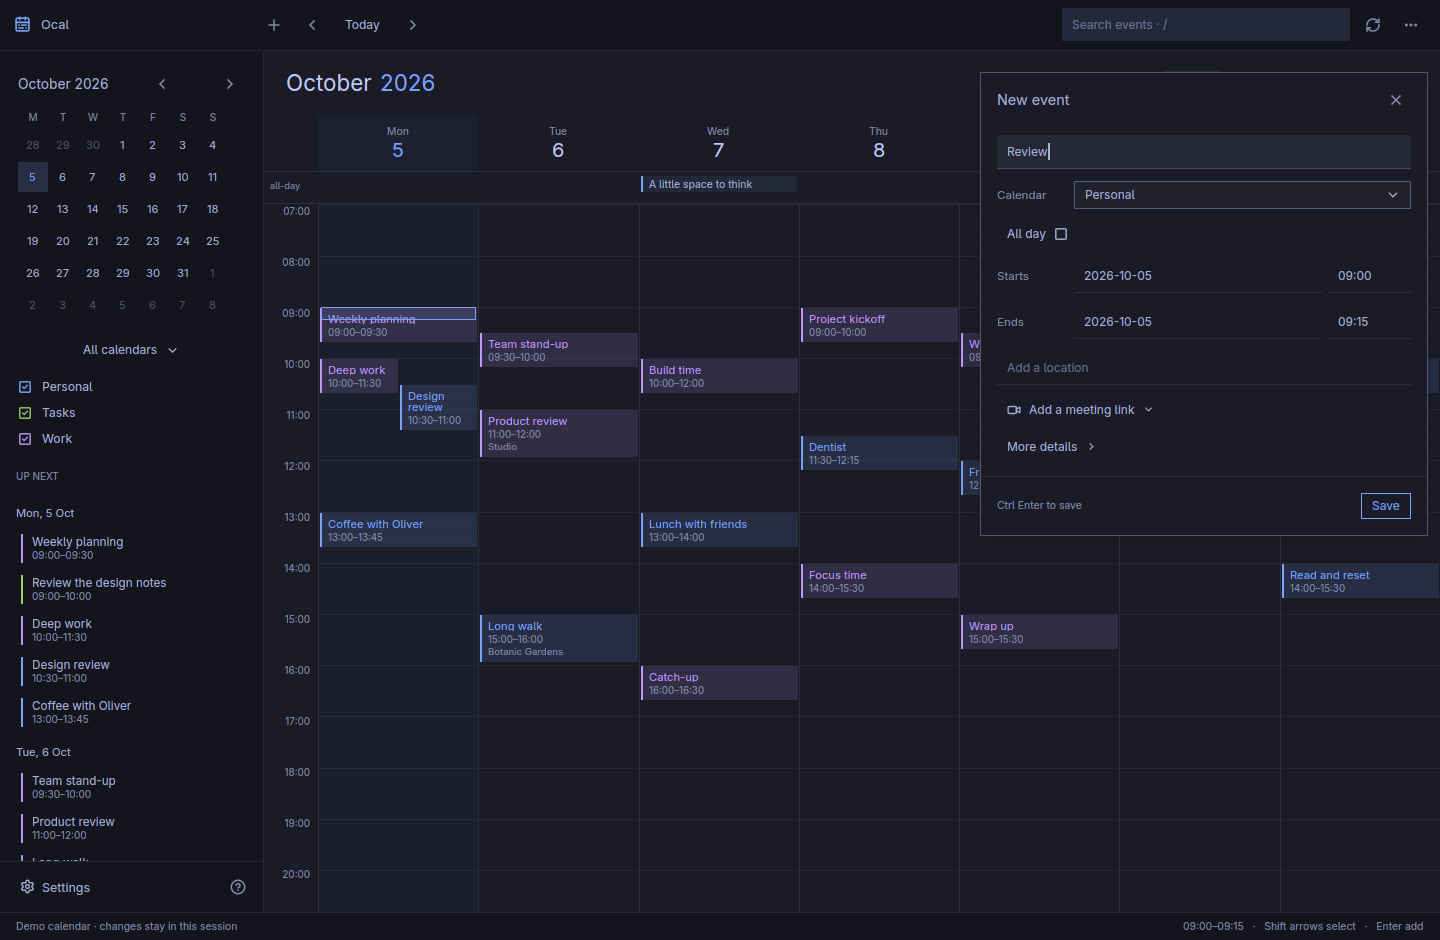
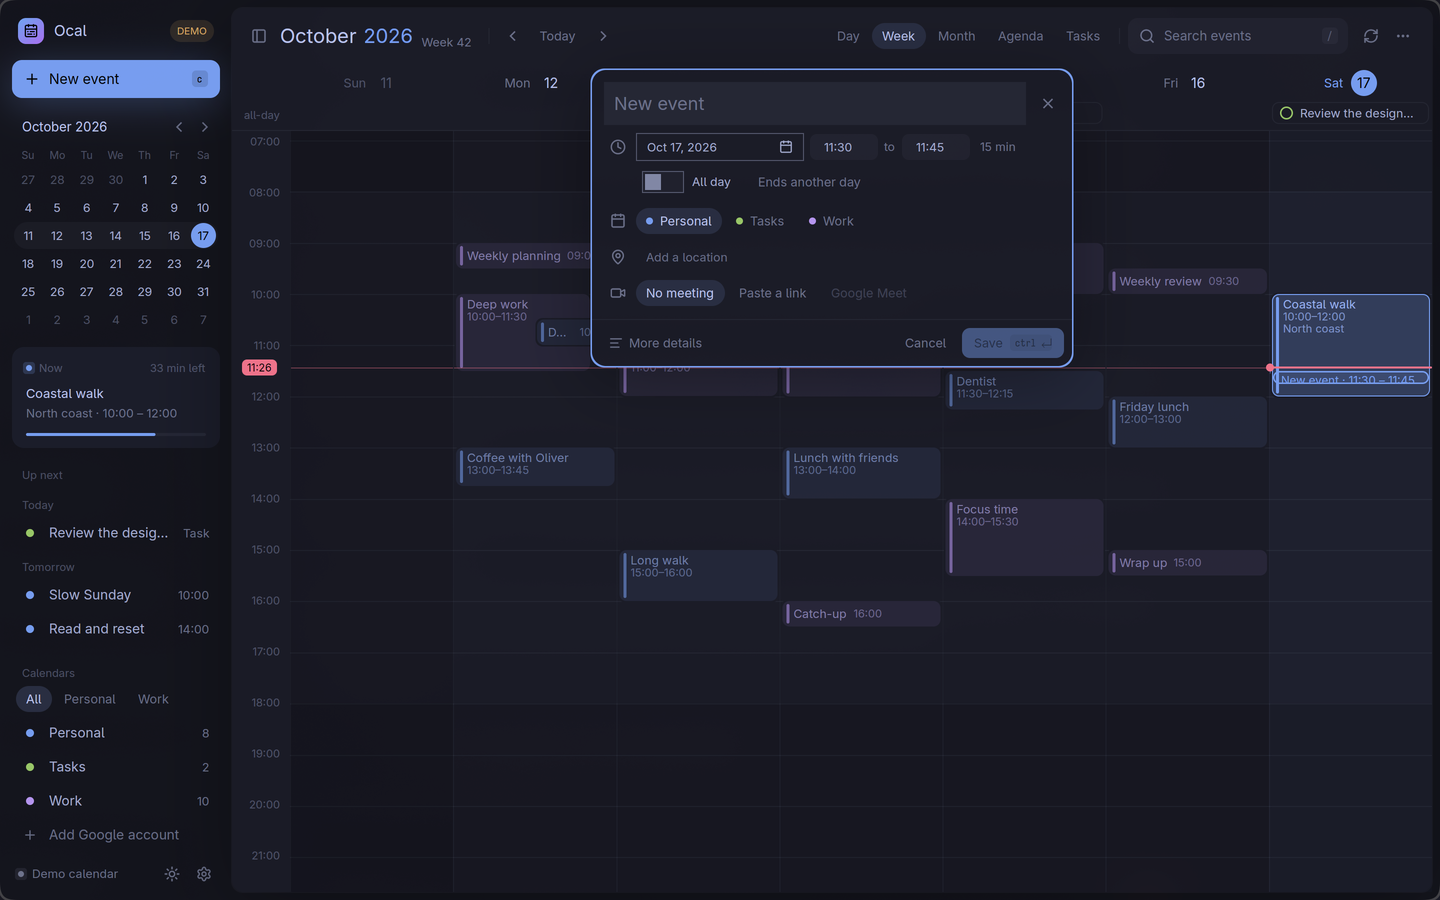
Refresh screenshots and validation notes for the redesign
New captures of week, day, details, editor, month, agenda, tasks and
light mode replace the pre-redesign ones; captures of the old context
menu, meeting picker and compact editor are dropped rather than left
showing the old interface. The validation notes record the new tests
and review, and the gap analysis notes where the app deliberately keeps
gpui-omarchy's stock controls instead of the prototype's drawings.

diff --git a/docs/validation.md b/docs/validation.md
@@ -1,29 +1,32 @@
 # Validation
 
-Validated on 6 October 2026, Arch Linux ARM / Omarchy, aarch64, Rust 1.97.0.
+Validated on 17 October 2026, after the redesign, on Arch Linux ARM / Omarchy, aarch64, Rust 1.97.0.
 
 - `cargo fmt --all -- --check`
-- `cargo test --locked --workspace`: **48 tests passed** (27 core, 21 native UI interactions).
+- `cargo test --locked --workspace`: **81 tests passed** (31 core, 50 native UI interactions).
 - `cargo clippy --locked --workspace --all-targets -- -D warnings`
 - Release build and desktop-entry validation.
 
 The UI tests cover 15-minute keyboard selection, Shift-drag in empty calendar space, input isolation, disabling edits during save, retry after errors, returning focus after save, context-menu keyboard ownership and dismissal, right-click placement and time selection, full-width week/month layouts, explicit Meet generation with stable retry IDs, pasted-link focus, removing conferences, and 480×480 light-theme layouts at 180% zoom with focused fields revealed by scrolling. Sign-in tests cover the hidden custom-client option, disabled demo sign-in, progress staying busy, retry after cancellation, the ordinary Google button dispatching without a file picker, sign-in errors beside the button, successful connection returning to the calendar, grouped Google accounts, per-account calendar visibility, adding another account, the event editor saving to the selected account, account cards fitting 480×480 windows, the original authorization link reaching the clipboard, copying again retaining the same attempt, cancellation/retry, and link controls being removed after callback or expiry. The ordinary-button test was also run in a separate build with a synthetic publisher client ID; it uses an isolated command channel and does not open a browser or contact Google.
 
+Redesign tests cover the sheet and toolbar layout, tooltips with lower-case keys, toasts (Undo runs once, info fades, errors stay), the sync footer, the light/dark preference, the shortcuts card, the details card sitting beside its event and flipping near the right edge (a full-width panel in compact windows), closing it with a second click or an outside click, Enter editing the open event, deleting with Undo and sending the delete only once the message goes or the app quits, the composer centred over the sheet with calendar tabs and More details, tasks with checkboxes in the month, agenda and all-day row, month dates opening the day, sticky agenda day headings and the overlap cascade.
+
 Core tests cover SQLite persistence and atomic failed imports, overlap lanes, DST-preserving weekly recurrence, skipping invalid monthly dates while respecting occurrence counts, ambiguous DST rejection, selection across midnight/in reverse, iCalendar folding/date-only round trips/unsupported recurrence errors, OAuth state and callback validation, missing/invalid publisher-client rejection and optional native-client secrets in token requests, Google all-day ranges, recurring-instance patches and Meet request payloads. Local HTTP fixtures verify Calendar API error decoding for disabled API, missing permissions, rate limits, malformed error responses and ETag conflicts without exposing arbitrary provider data. Multi-account checks cover the account chooser retaining PKCE/offline access, shared calendar/event IDs remaining distinct per account, reconnecting/syncing one account preserving other accounts and local data, and an expired account not stopping subsequent accounts from syncing. Local loopback HTTP tests verify that a stale callback gets rejected while the current attempt remains usable, matched Google denials cancel cleanly, expired attempts require a fresh link, and preparing a copied link does not launch a browser or expose the client secret/PKCE verifier.
 
-Native visual review used an isolated Xvfb display while the physical desktop was locked. Ocal rendered with the current Omarchy theme using the real GPUI renderer and native text; the captures are not HTML mockups. This checked week/month layouts, keyboard creation and saving, meeting picker, details, context menus, agenda and compact windows. The demo also launched as a Wayland window, but physical-desktop visual inspection was unavailable during the locked session.
+Native visual review ran the `--demo` build as floating 1440×900 Wayland windows on the desktop, with the real GPUI renderer, native text and the current Omarchy theme; the captures are not HTML mockups. Each view was compared side by side with the build before the redesign and with the [prototype](prototype/redesign.html). That review found and fixed month dates stretching across their cell and the date picker running over the composer's start time. Context menus, the meeting choices and compact windows were not recaptured; they are covered by UI tests.
 
 Keyboard regressions additionally check the two-pixel time cursor, highlighting and opening existing events, exclusive event end times, overlap targeting, calendar visibility, event context actions, Shift selection through occupied time, reverse selection and collapsing back to the anchor. Rendered event bounds are checked against their actual duration for 5-, 15-, 30-, 60- and 90-minute events, including overnight clipping, at 70%, 100% and 180% zoom. Keyboard selection uses time boundaries; pointer drags retain inclusive 15-minute slots.
 
 ## Captures
 
-- [Week](week.png)
-- [Month](month.png)
-- [Event editor](event-editor.png)
-- [Meeting choices](meeting-options.png) — Meet is disabled for the local demo calendar; the Google-capable case is covered by UI/payload tests.
-- [Context menu](context-menu.png)
-- [Compact event editor](compact-event-editor.png)
+- [Week](week.png), with the Now card and today's running event
+- [Day](day.png)
 - [Event details](event-details.png)
+- [Event editor](event-editor.png)
+- [Month](month.png)
+- [Agenda](agenda.png)
+- [Tasks](tasks.png)
+- [Light mode](light.png), with an event's details open
 
 ## Live Google checks remaining
 

diff --git a/docs/prototype/gaps/README.md b/docs/prototype/gaps/README.md
@@ -2,6 +2,14 @@
 
 This compares the HTML prototype (`docs/prototype/redesign.html`, open it in a browser) with the app as it is in the source today. It lists what the app needs to gain to match the prototype, and what the prototype leaves out that the app already does.
 
+**Status (17 October 2026):** implemented. The checklists below record the plan; the app now matches the prototype's layout, surfaces and behaviour, with these deliberate differences:
+
+- Controls drawn by gpui-omarchy stay stock rather than being restyled to match the mock-up: text inputs keep their fill (the composer title and search field), the date picker is its outlined button, and All day is the standard switch.
+- Search keeps its results list rather than filtering the view in place.
+- Everything marked **keep** below stays: the time cursor, Shift ranges, context menus, RSVP and the guest list, the full editor fields, account groups and narrow layouts.
+
+Screenshots of the finished app are in [`docs/validation.md`](../../validation.md).
+
 The prototype follows Omail's redesign prototype (`docs/prototype/redesign.html` in the Omail repository): the same colour tokens, inset sidebar, raised sheet, pill tabs, icon buttons, tooltips, toast and floating "reply box" cards. Where this doc says "like Omail", it means that prototype.
 
 ![Prototype week view](00-overview-week.png)
